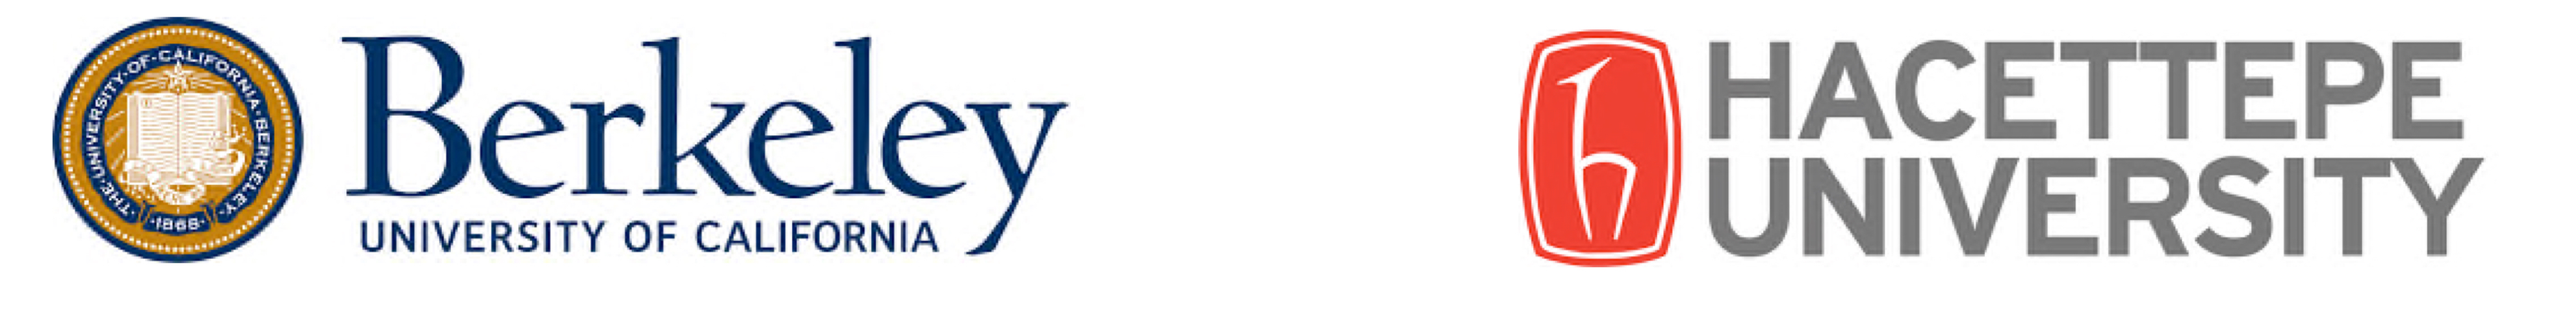
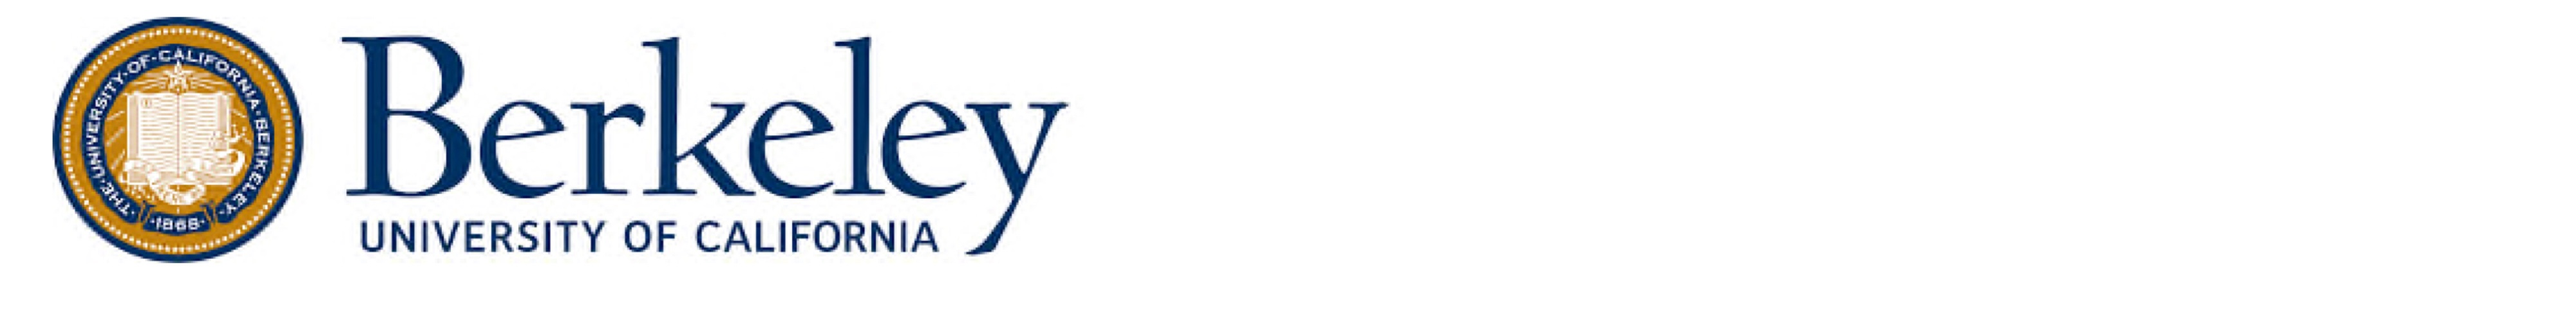
making UCB the only affiliation

Changed region(s): [[0.5625, 0.0926, 0.9688, 0.8642]]

diff --git a/index.html b/index.html
@@ -30,14 +30,10 @@
   Mechanical System Control Laboratory <br />
   UC Berkeley</b> <br /> <br />
   <tt>bkurkcu[at]berkeley[dot]edu</tt> <br /> <br />
-   <b>Assistant Professor,  <br /> 
-Department of Computer Engineering <br />
-Hacettepe University</b> <br /> <br />
-<tt>bkurkcu[at]cs[dot]hacettepe[dot]edu[dot]tr</tt> <br /> <br />
 </p>
 </td></tr></table>
 <h2></h2>
-<p>I am a Research Scholar in the MSC Laboratory at <a href="https://www.berkeley.edu/">UC Berkeley</a>. Jointly, I am also an assistant professor in <a href="https://www.cs.hacettepe.edu.tr/">the Department of Computer Engineering at Hacettepe University </a>. Before joining the department, I had been working as a control system design engineer at <a href="https://www.aselsan.com.tr/en">ASELSAN Inc. </a> for 10 years. I received my Ph.D. and M.Sc. degrees from the Department of Electrical and Electronics Engineering at <a href="https:\\www.etu.edu.tr/en">TOBB University of Economics and Technology </a> in  2019 and 2015 respectively. I received my B.Sc degree from the <a href="https://www.itu.edu.tr/en/homepage"> Istanbul Technical University </a> in 2010. </p>
+<p>I am a Research Scholar in the MSC Laboratory at <a href="https://www.berkeley.edu/">UC Berkeley</a>. I was an assistant professor in <a href="https://www.cs.hacettepe.edu.tr/">the Department of Computer Engineering at Hacettepe University between March'21 and May'24 </a>. Before joining the department at Hacettepe University, I had been working as a control system design engineer at <a href="https://www.aselsan.com.tr/en">ASELSAN Inc. </a> for 10 years. I received my Ph.D. and M.Sc. degrees from the Department of Electrical and Electronics Engineering at <a href="https:\\www.etu.edu.tr/en">TOBB University of Economics and Technology </a> in  2019 and 2015 respectively. I received my B.Sc degree from the <a href="https://www.itu.edu.tr/en/homepage"> Istanbul Technical University </a> in 2010. </p>
 <h2>Research Interests</h2>
 I aim to establish a <u> unified theory </u> , primarily from an algebraic viewpoint. Additionally, in the lens of AI/ML, I focus on fostering collaboration to address fundamental questions related to <u>quantifying uncertainties</u> and determining <u>optimal data requirements </u> for a deeper understanding of physical phenomena. My overarching goal is to tackle the ongoing theoretical challenge of <u>feasibility and applicability</u>.
 <div class="codeblock">
